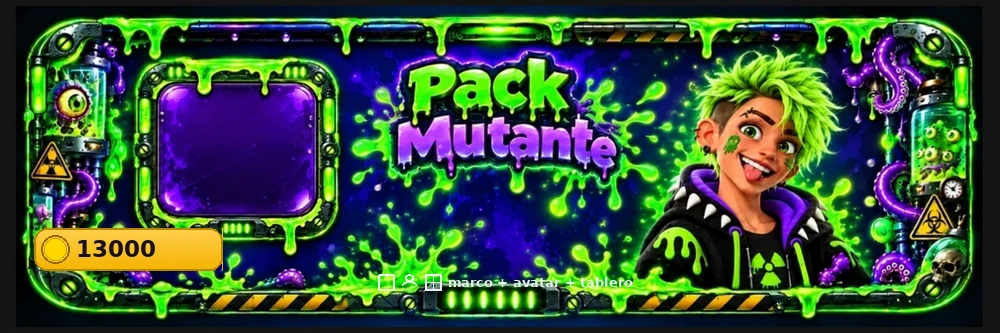
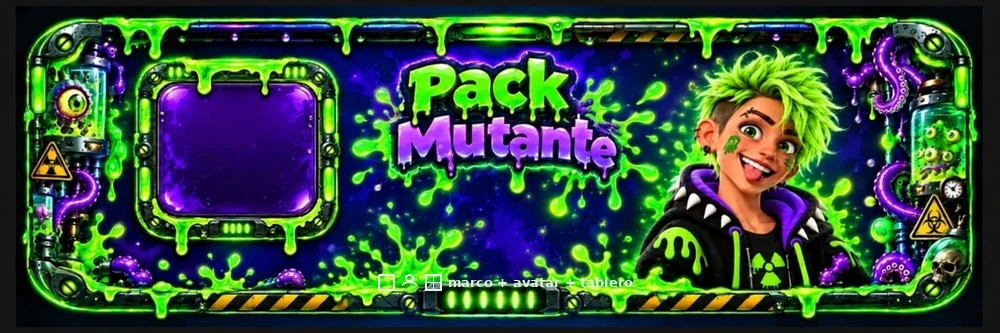
Sacar moneda duplicada del Pack Mutante
Quita la insignia horneada abajo a la izquierda de la imagen y muestra el
precio una sola vez, con una etiqueta chica y fija que no tapa al personaje
(antes se duplicaba con el aviso nativo de saldo insuficiente, que además
tapaba toda la tarjeta con un texto grande centrado).

Claude-Session: https://claude.ai/code/session_016Hpyg3vebFKwHSnTQ2rALx

Changed region(s): [[0.031, 0.6607, 0.248, 0.8408]]

diff --git a/index.html b/index.html
@@ -331,6 +331,11 @@ button:focus-visible{outline:3px solid var(--agua);outline-offset:2px}
  background:transparent;color:transparent;box-shadow:none;border:none;font-size:1rem;font-weight:800;
  display:flex;align-items:center;justify-content:center;padding:0}
 .tn-pack-img .tn-comprar:disabled{background:#000000B0;color:#fff}
+.tn-pack-precio-fijo{position:absolute;left:12px;bottom:12px;background:var(--oro);color:var(--tinta);
+ padding:6px 14px;border-radius:10px;font-size:.85rem;font-weight:800;box-shadow:0 3px 0 #B3860099;
+ border:1px solid #FFE49A66;pointer-events:none}
+.tn-pack-img .tn-comprar:has(+.tn-pack-precio-fijo):disabled{background:transparent;color:transparent;
+ position:absolute;inset:0;width:100%;height:100%}
 .tn-comprar{background:var(--oro);color:var(--tinta);font-weight:800;border-radius:10px;padding:10px 14px;
  flex-shrink:0;font-size:.85rem;white-space:nowrap;box-shadow:0 3px 0 #B3860099;border:1px solid #FFE49A66}
 .tn-item.tn-real{border-color:#37D6C077;background:linear-gradient(135deg,#37D6C01A,#7B3FE41A);border-width:2px}
@@ -1091,6 +1096,7 @@ body.tvhost #juego .ficha{width:clamp(30px,4.5vw,52px);height:clamp(42px,6vw,66p
   </div>
   <div class="tn-item tn-pack-img" style="background-image:url('assets/shop/pack-mutante.webp')">
   <button class="tn-comprar" data-tipo="pack_mutante" data-precio="13000" data-real-agregado="1" data-nombre="el Pack Mutante">🪙 13000</button>
+  <span class="tn-pack-precio-fijo" id="tnPrecioFijoMutante">🪙 13000</span>
   </div>
   <h3 class="tn-subtitulo" data-fijo="1">⏳ Ofertas diarias</h3>
   <div class="tn-grid">
@@ -2431,6 +2437,8 @@ function tnActualizar(){
     if(!puede){b.textContent=tnRazonBloqueo(tipo);b.title="";}
     else if(tipo==="oferta_gratis"){b.textContent="🎁 Gratis";b.title="";}
     else{b.textContent="🪙 "+precio;b.title=alcanza?"":"Te faltan "+(precio-meta.monedas)+" monedas";}
+    const fijo=b.parentElement.querySelector(".tn-pack-precio-fijo");
+    if(fijo)fijo.textContent=b.textContent;
   });
 }
 /* Las secciones de la Tienda que ya existían quedan siempre visibles

diff --git a/sw.js b/sw.js
@@ -1,4 +1,4 @@
-const CACHE_NAME = "gya-cache-v12";
+const CACHE_NAME = "gya-cache-v13";
 const APP_SHELL = ["./", "./index.html", "./manifest.json", "./icono-192.png", "./icono-512.png", "./assets/logo.webp"];
 
 self.addEventListener("install", (e) => {
